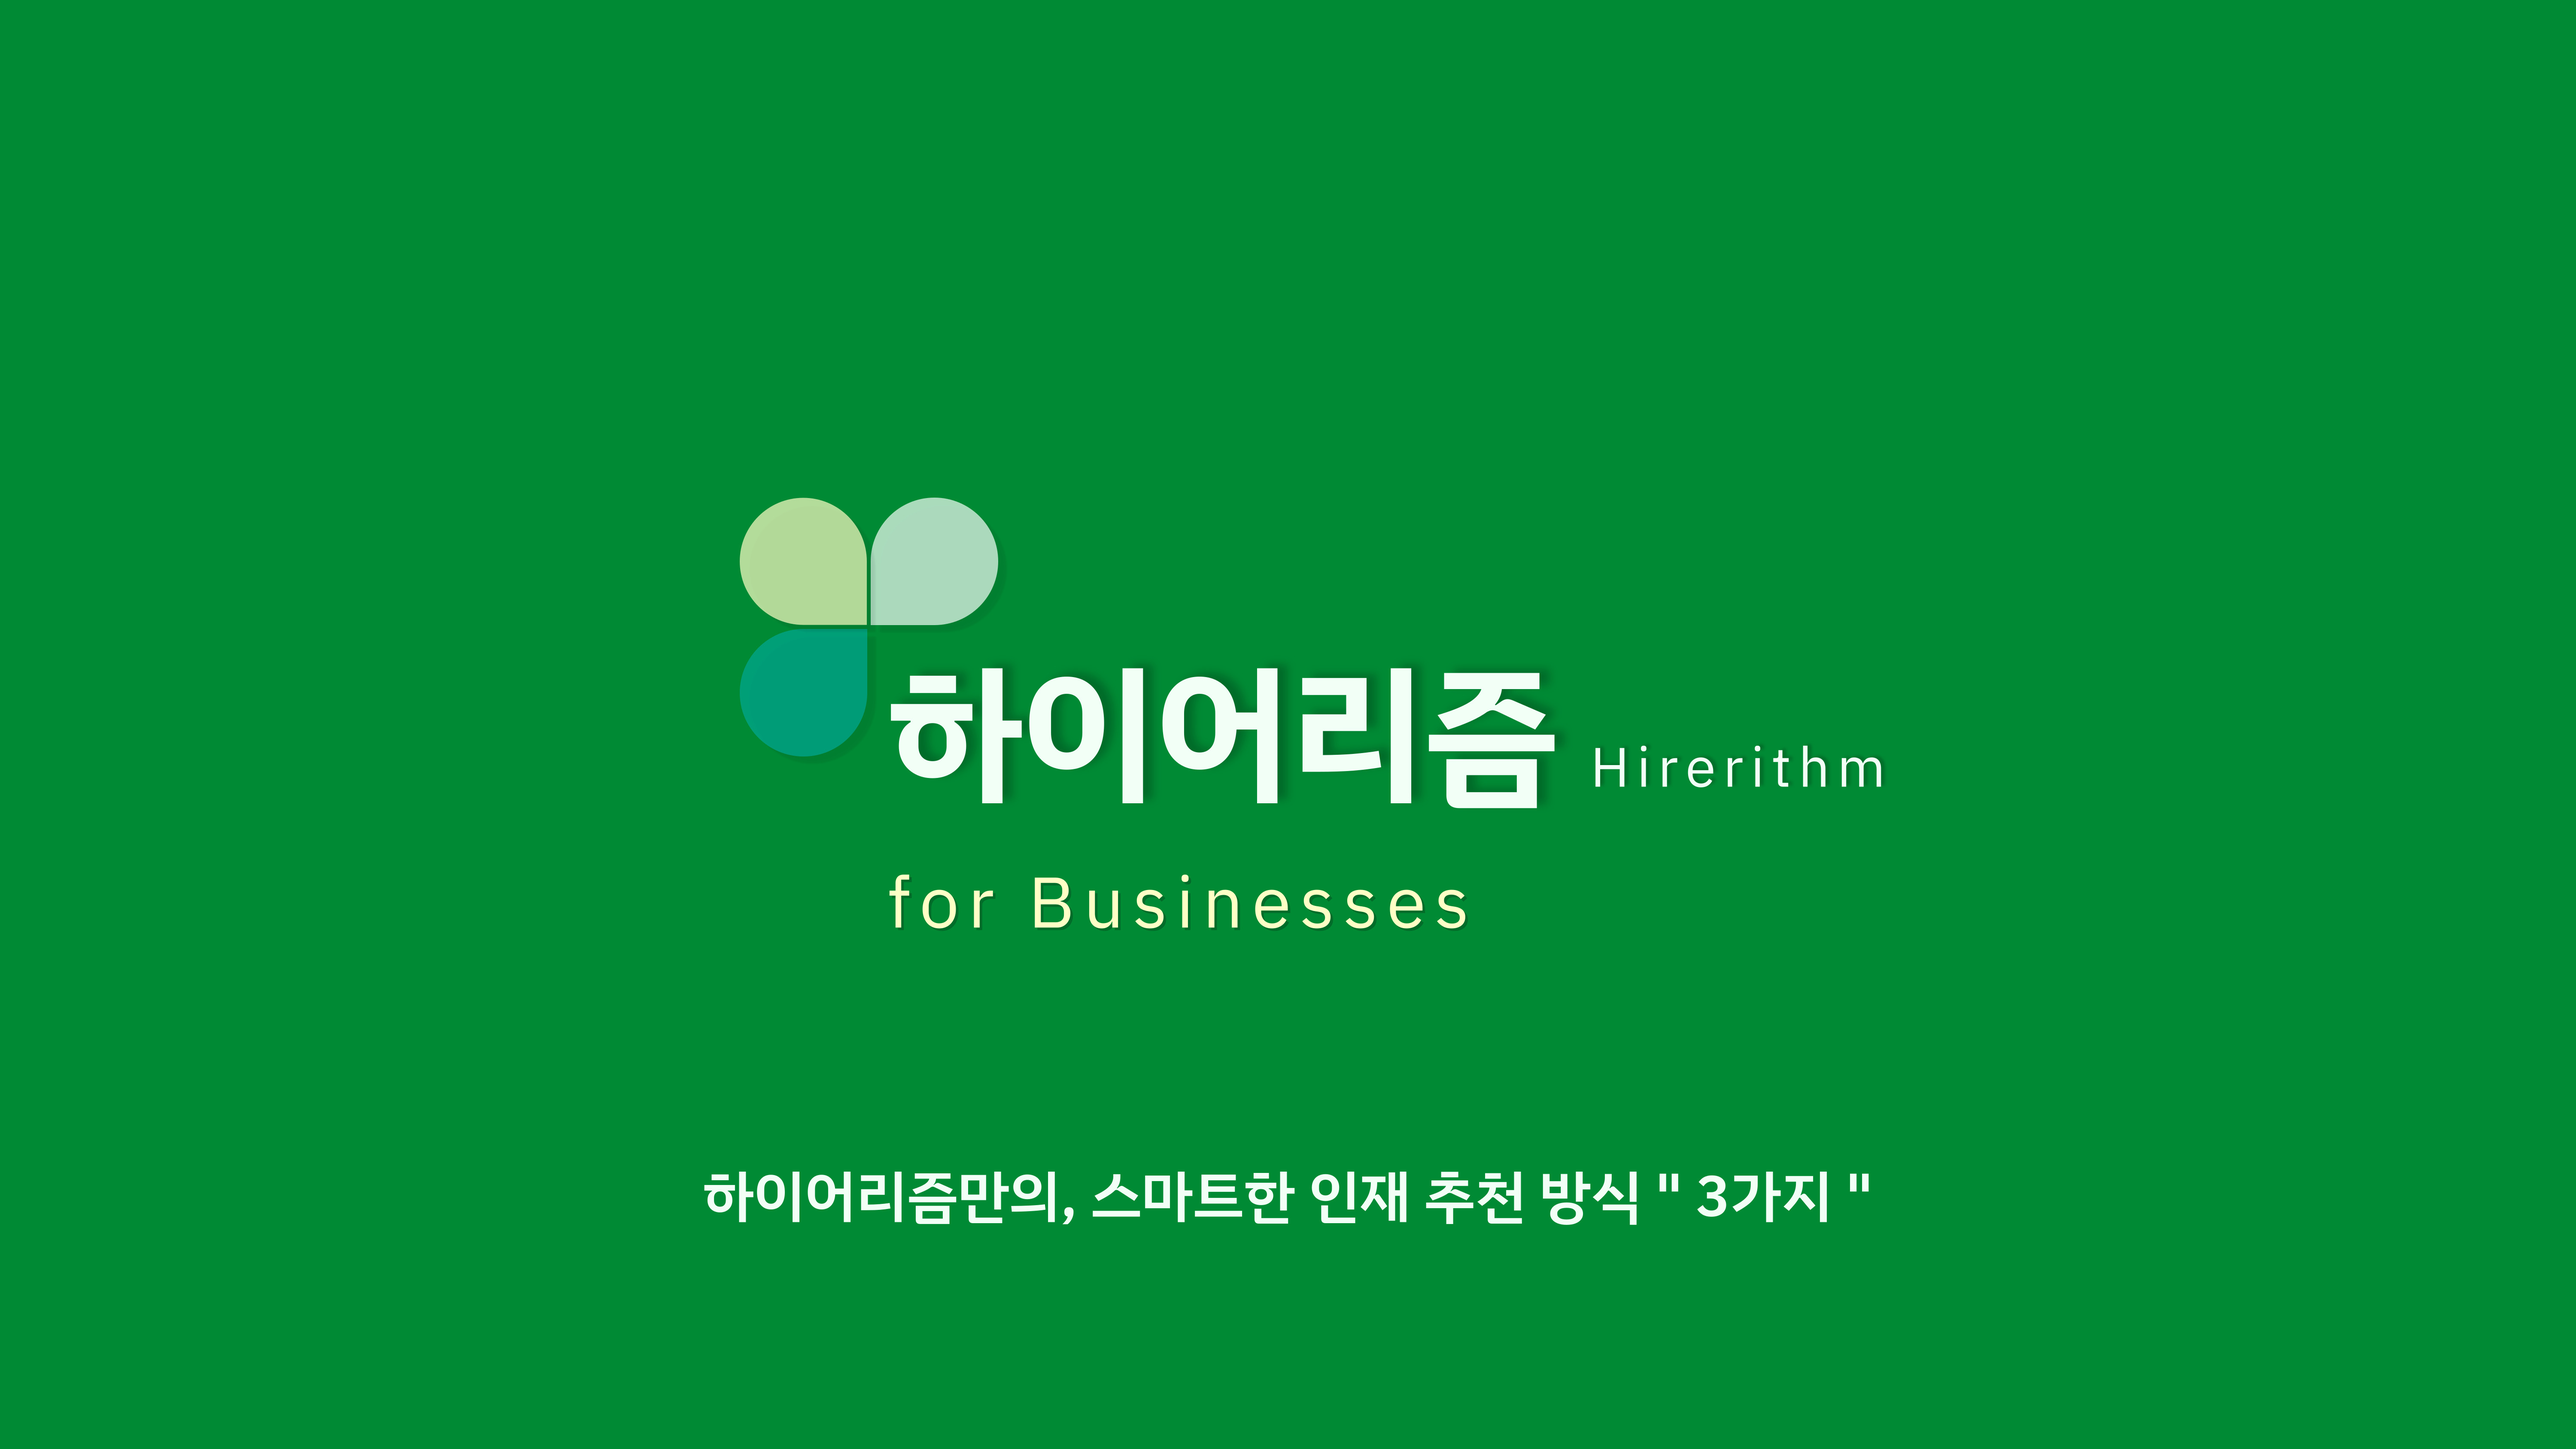
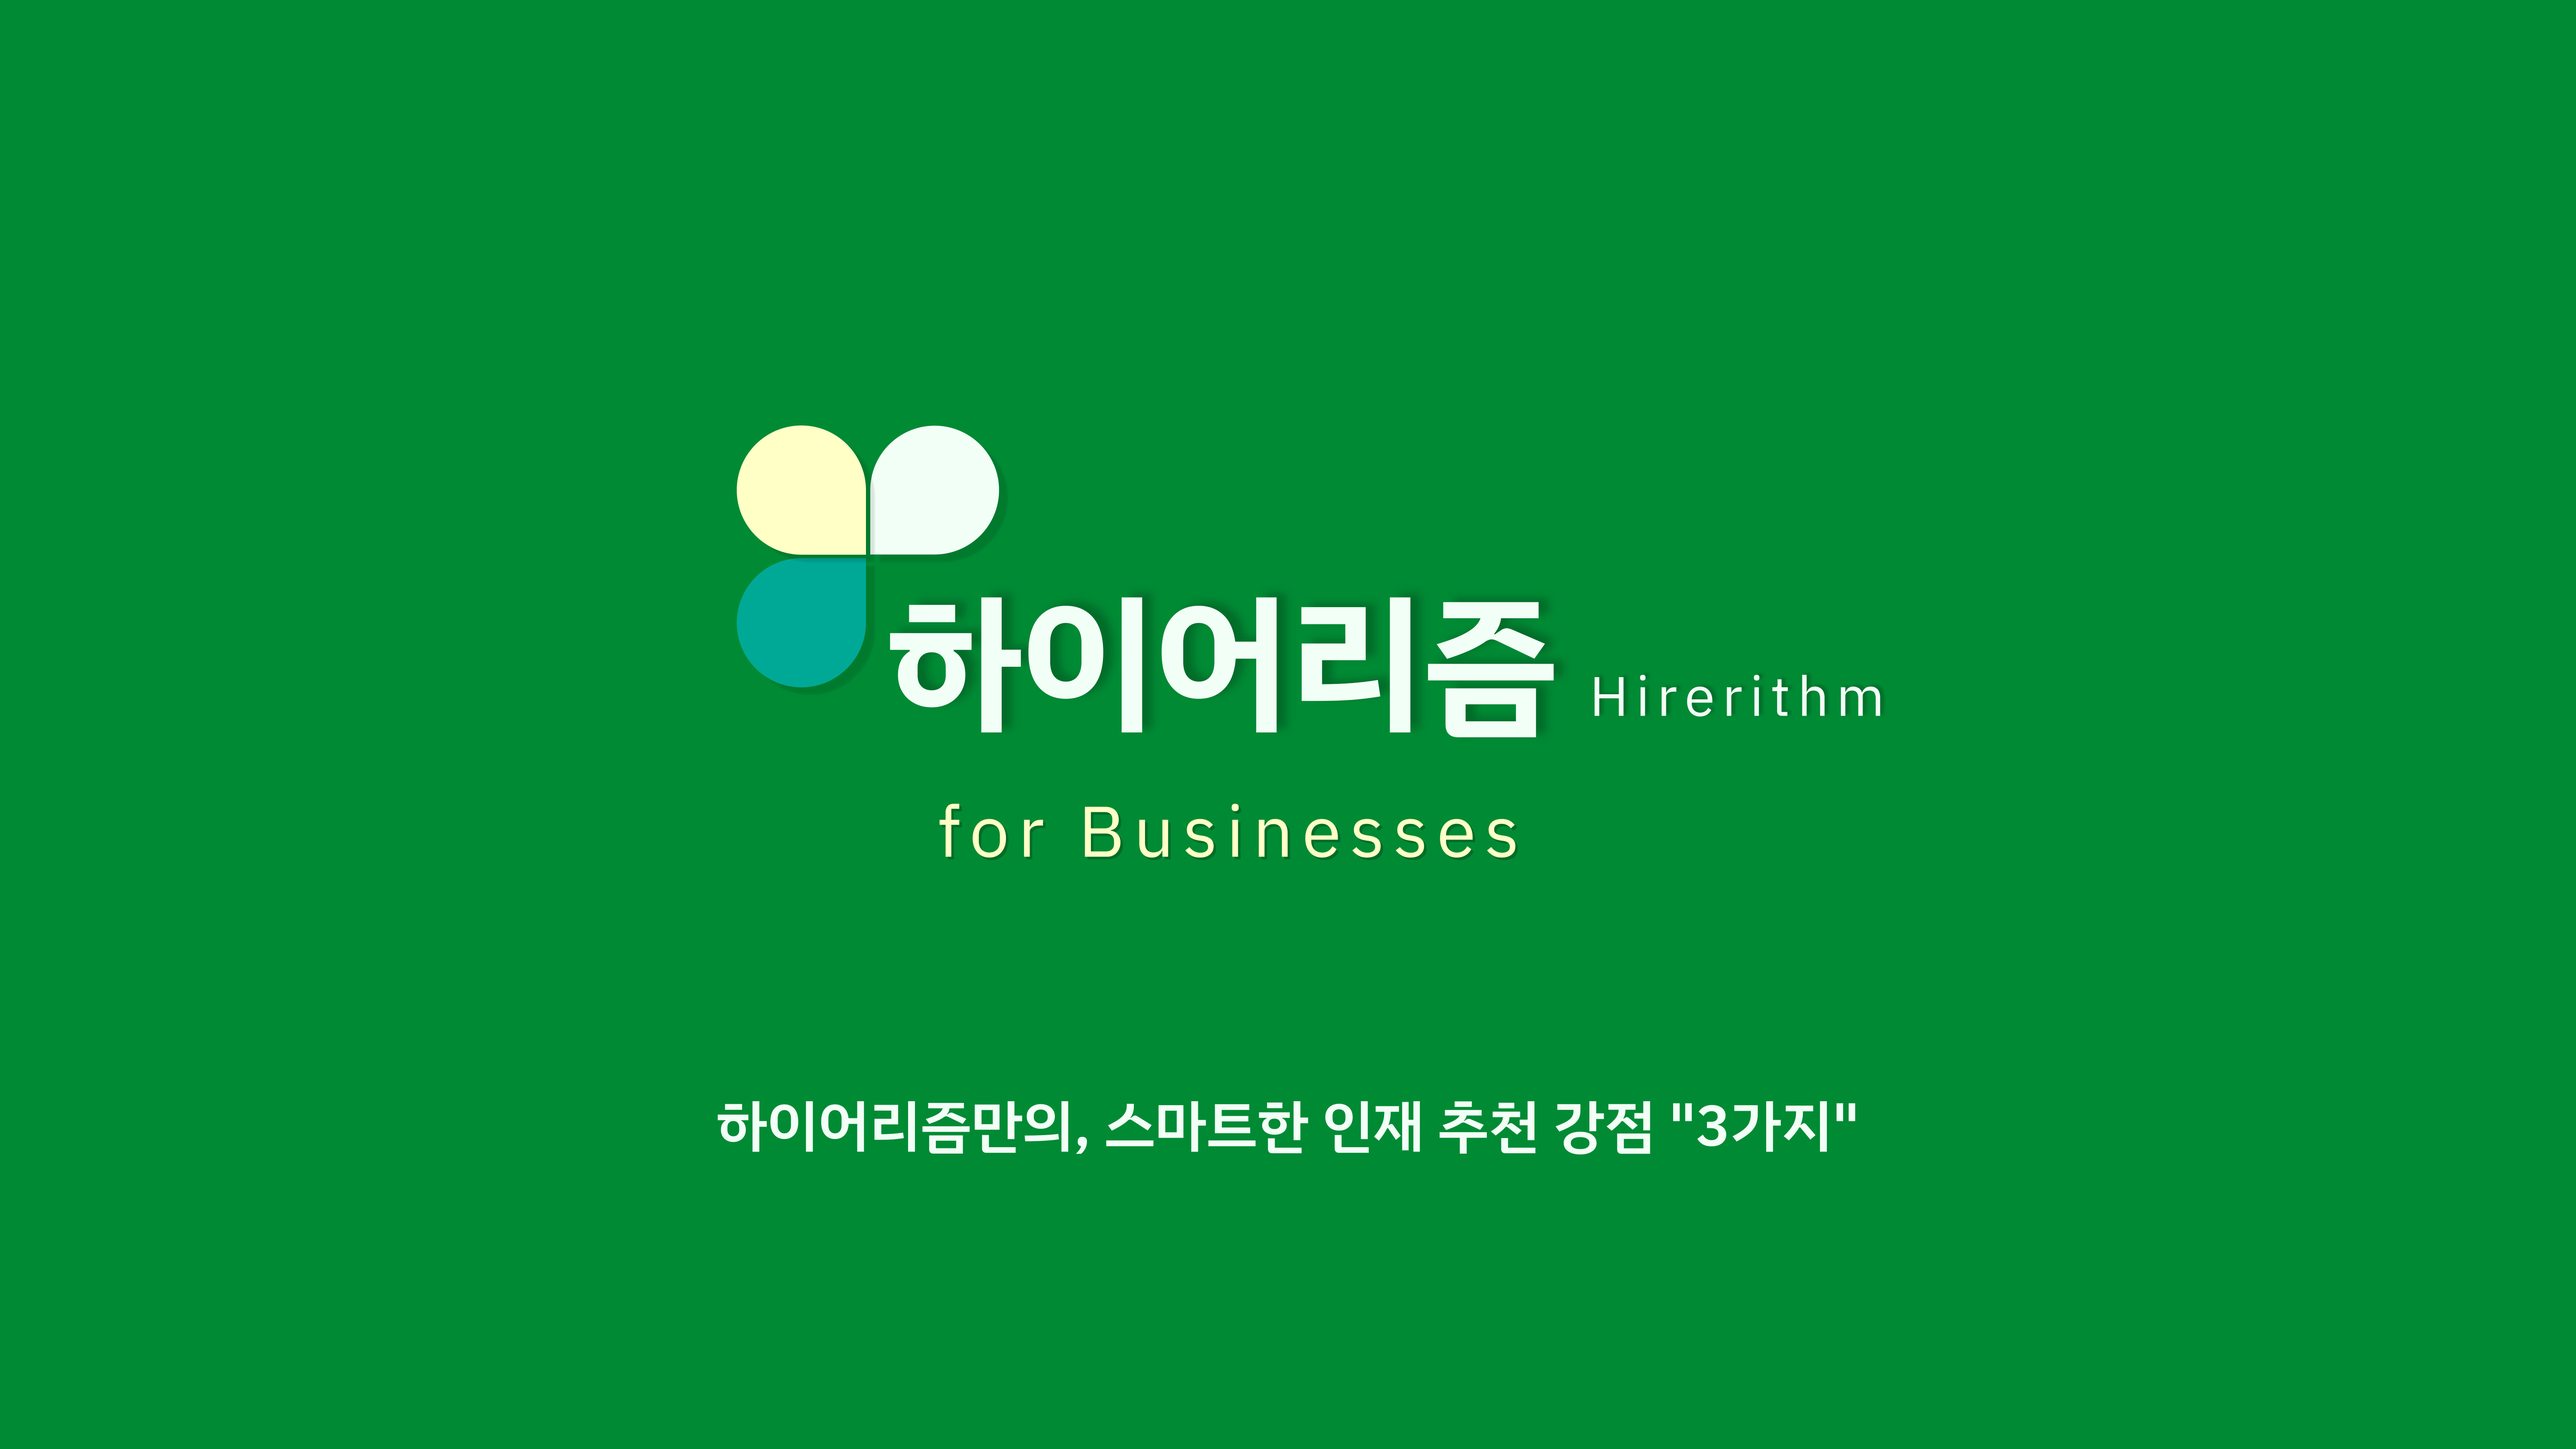
💄 #71 배너이미지, 네비바 로고 디자인 수정 완료

Changed region(s): [[0.2805, 0.28, 0.748, 0.6533], [0.2805, 0.7467, 0.7168, 0.84]]

diff --git a/Frontend/src/Pages/MainPages/PersonalMain.js b/Frontend/src/Pages/MainPages/PersonalMain.js
@@ -8,16 +8,12 @@ import UpAnimation from "../../Image/Icon/UpAnimation.svg";
 import DownAnimation from "../../Image/Icon/DownAnimation.svg";
 import DownAnimation2 from "../../Image/Icon/DownAnimation2.svg";
 import BannerImage1 from "../../Image/Image/009.jpg";
-import BannerImage2 from "../../Image/Image/010.jpg";
-import BannerImage3 from "../../Image/Image/011.jpg";
-import BannerImage4 from "../../Image/Image/012.jpg";
+import BannerImage2 from "../../Image/Image/010.gif";
 import BannerImage5 from "../../Image/Image/last.jpg";
 
 const bannerData = [
   { image: BannerImage1, downIcon: DownAnimation },
   { image: BannerImage2, downIcon: DownAnimation2 },
-  { image: BannerImage3, downIcon: DownAnimation2 },
-  { image: BannerImage4, downIcon: DownAnimation2 },
   { image: BannerImage5, downIcon: null },
 ];
 

diff --git a/Frontend/src/Pages/MainPages/styles/PersonalMain.css b/Frontend/src/Pages/MainPages/styles/PersonalMain.css
@@ -87,7 +87,7 @@
   cursor: pointer;
   transition: transform 0.2s ease;
   box-shadow: 0 4px 6px rgba(0, 0, 0, 0.1);
-  margin-bottom: 200px;
+  margin-bottom: 10vh;
 }
 
 .resume-button:hover {
